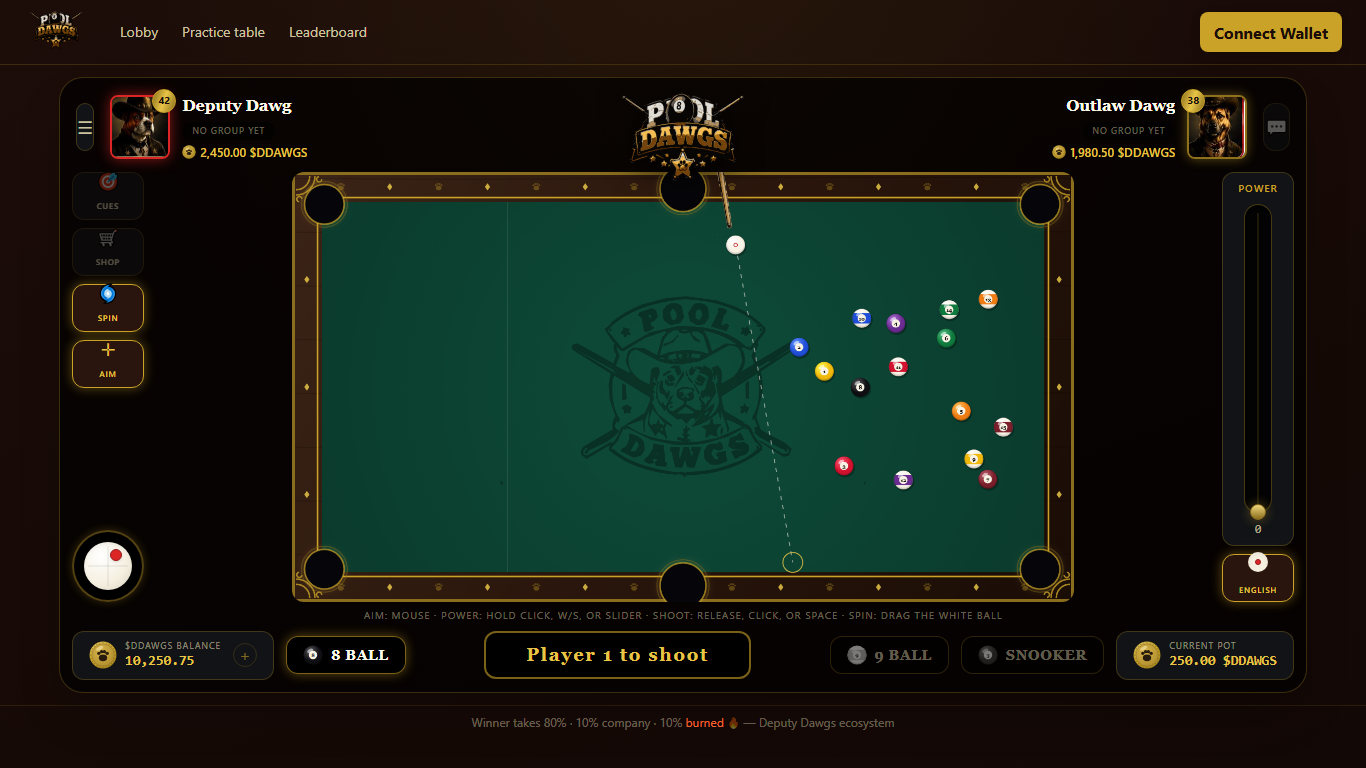
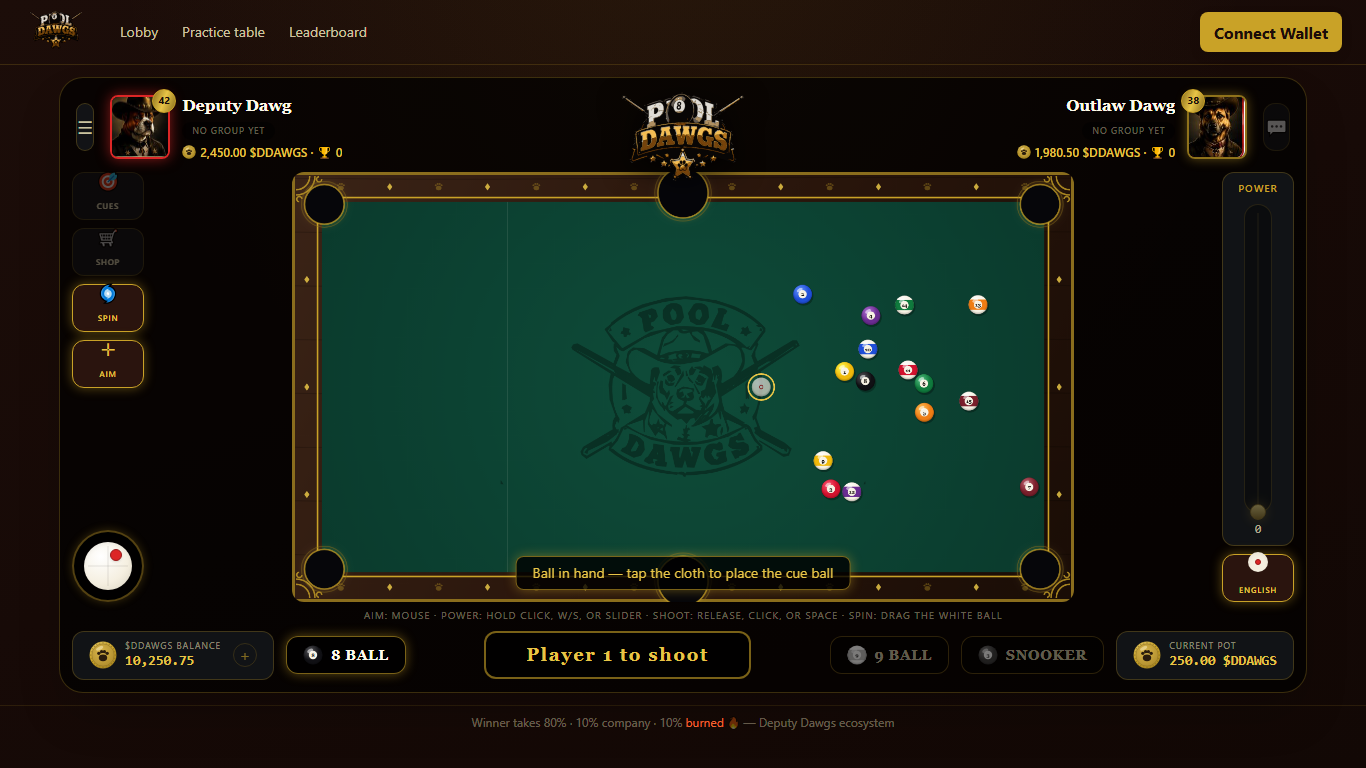
update

diff --git a/packages/engine/src/physics.ts b/packages/engine/src/physics.ts
@@ -1,16 +1,17 @@
-// Deterministic port of the fork's physics: GameWorld.handleCollision,
-// Ball.update / Ball.updatePosition / Ball.handleCollision. The math, the
-// constants and crucially the ORDER of operations (pairwise ball collisions
-// first, then per-ball integration, ascending index) are preserved so that
-// server and client simulations of the same shot produce identical results.
+// Deterministic physics, originally ported from the fork (GameWorld /
+// Ball.update / Ball.handleCollision) and then deliberately upgraded:
+//   • ball-ball contacts use REAL elastic collisions (normal-component
+//     exchange with restitution) instead of the fork's symmetric shove;
+//   • centre-pocket capture zones are retuned to match the visual mouths.
+// Friction, cushion handling, the fixed timestep and the ORDER of operations
+// (pairwise collisions first, then per-ball integration, ascending index)
+// are preserved so server and client simulations stay bit-identical.
 
 import {
-  BALL_COLLISION_DAMPING,
   BALL_ORIGIN,
+  BALL_RESTITUTION,
   BALL_SIZE,
   BOTTOM_BORDER_Y,
-  COLLISION_IMPULSE,
-  COLLISION_POWER_FACTOR,
   CUSHION_DAMPING,
   DELTA,
   FRICTION_PER_STEP,
@@ -82,6 +83,13 @@ export function stepWorld(
   return anyMoving;
 }
 
+/**
+ * Elastic equal-mass collision (real pool physics): the velocity components
+ * along the contact normal are exchanged (scaled by restitution), tangential
+ * components are kept. Detection looks one step ahead like the fork did, and
+ * the approach test (relative normal velocity < 0) prevents the same contact
+ * from firing twice while balls overlap.
+ */
 function collideBalls(
   b1: BallState,
   b2: BallState,
@@ -101,29 +109,39 @@ function collideBalls(
   const dy = n1y - n2y;
   const dist = Math.sqrt(dx * dx + dy * dy);
 
-  if (dist >= BALL_SIZE) return;
+  if (dist >= BALL_SIZE || dist < 1e-9) return;
+
+  const nx = dx / dist;
+  const ny = dy / dist;
+
+  // Only resolve approaching contacts.
+  const rel = (b1.vx - b2.vx) * nx + (b1.vy - b2.vy) * ny;
+  if (rel >= 0) return;
 
   hooks.onBallsCollide?.(b1, b2);
   events.push({ type: "ballsCollide", a: b1.id, b: b2.id, step });
 
-  let power =
-    Math.abs(b1.vx) + Math.abs(b1.vy) + Math.abs(b2.vx) + Math.abs(b2.vy);
-  power = power * COLLISION_POWER_FACTOR;
+  // Equal masses: each ball receives half the normal impulse.
+  const impulse = (-(1 + BALL_RESTITUTION) * rel) / 2;
+  b1.vx += impulse * nx;
+  b1.vy += impulse * ny;
+  b2.vx -= impulse * nx;
+  b2.vy -= impulse * ny;
 
-  const rotation = Math.atan2(b1.y - b2.y, b1.x - b2.x);
+  // Separate actual interpenetration so balls never sink into each other.
+  const cdx = b1.x - b2.x;
+  const cdy = b1.y - b2.y;
+  const cdist = Math.sqrt(cdx * cdx + cdy * cdy);
+  if (cdist > 1e-9 && cdist < BALL_SIZE) {
+    const push = (BALL_SIZE - cdist) / 2;
+    b1.x += (cdx / cdist) * push;
+    b1.y += (cdy / cdist) * push;
+    b2.x -= (cdx / cdist) * push;
+    b2.y -= (cdy / cdist) * push;
+  }
 
   b1.moving = true;
   b2.moving = true;
-
-  b2.vx += COLLISION_IMPULSE * Math.cos(rotation + Math.PI) * power;
-  b2.vy += COLLISION_IMPULSE * Math.sin(rotation + Math.PI) * power;
-  b2.vx *= BALL_COLLISION_DAMPING;
-  b2.vy *= BALL_COLLISION_DAMPING;
-
-  b1.vx += COLLISION_IMPULSE * Math.cos(rotation) * power;
-  b1.vy += COLLISION_IMPULSE * Math.sin(rotation) * power;
-  b1.vx *= BALL_COLLISION_DAMPING;
-  b1.vy *= BALL_COLLISION_DAMPING;
 }
 
 function updateBall(

diff --git a/packages/engine/src/constants.ts b/packages/engine/src/constants.ts
@@ -1,6 +1,7 @@
-// Constants ported verbatim from the forked Classic-Pool-Game
-// (Global.js, GamePolicy.js, GameWorld.js). Changing any of these breaks
-// replay-compatibility between server and client simulations.
+// Simulation constants — mostly from the forked Classic-Pool-Game
+// (Global.js, GamePolicy.js, GameWorld.js), with deliberate upgrades noted
+// inline (elastic collisions, centre-pocket capture). Changing ANY of these
+// breaks replay-compatibility: server and client must run the same values.
 
 export const TABLE_WIDTH = 1500;
 export const TABLE_HEIGHT = 825;
@@ -17,9 +18,13 @@ export const DELTA = 1 / 100;
 
 export const FRICTION_PER_STEP = 0.98;
 export const CUSHION_DAMPING = 0.95;
-export const BALL_COLLISION_DAMPING = 0.97;
-export const COLLISION_POWER_FACTOR = 0.00482;
-export const COLLISION_IMPULSE = 90;
+/**
+ * Ball-ball restitution for the elastic collision model. This replaces the
+ * fork's non-physical symmetric shove (total-speed × 0.00482 × 90 applied to
+ * both balls) with real momentum exchange along the contact normal — head-on
+ * shots stop the cue ball, cut shots split correctly.
+ */
+export const BALL_RESTITUTION = 0.94;
 export const SHOT_VELOCITY_FACTOR = 100;
 export const STOP_THRESHOLD = 1;
 
@@ -47,14 +52,21 @@ export interface Hole {
   radius: number;
 }
 
-/** Pocket centres from GamePolicy.js; centre pockets get +6 radius as in the fork. */
+/**
+ * Pocket capture zones. Corners keep the fork's GamePolicy.js values (they
+ * play fine). The fork's CENTRE pockets sat so deep under the rail — (750,32)
+ * and (750,794), radius 52 — that a cushion-hugging ball (centre clamped to
+ * y 82/743) had a capture window of only ~29px / ~20px: visually a hole,
+ * functionally a wall. They are deliberately retuned so the physics honours
+ * the drawn mouth (~70px capture window along the rail).
+ */
 export const HOLES: readonly Hole[] = [
   { x: 62, y: 62, radius: HOLE_RADIUS }, // top left
   { x: 1435, y: 62, radius: HOLE_RADIUS }, // top right
   { x: 62, y: 762, radius: HOLE_RADIUS }, // bottom left
   { x: 1435, y: 762, radius: HOLE_RADIUS }, // bottom right
-  { x: 750, y: 32, radius: HOLE_RADIUS + 6 }, // top centre
-  { x: 750, y: 794, radius: HOLE_RADIUS + 6 }, // bottom centre
+  { x: 750, y: 40, radius: 56 }, // top centre
+  { x: 750, y: 785, radius: 56 }, // bottom centre
 ];
 
 export const CUE_BALL_START = { x: 413, y: 413 };

diff --git a/packages/engine/src/engine.test.ts b/packages/engine/src/engine.test.ts
@@ -212,6 +212,51 @@ describe("ball in hand placement", () => {
   });
 });
 
+describe("pocket capture matches the visual mouth", () => {
+  /** Lone cue ball hugging a cushion (centre clamped to the rail line). */
+  function railState(y: number): TableState {
+    const state = createInitialState();
+    for (const ball of state.balls) {
+      if (ball.id === CUE_BALL_ID) continue;
+      ball.inHole = true;
+      ball.x = 0;
+      ball.y = 900;
+    }
+    const cue = cueBall(state);
+    cue.x = 600;
+    cue.y = y;
+    return state;
+  }
+
+  it("a ball rolling along the TOP rail drops into the top-centre pocket", () => {
+    // Top cushion rest line: centre y = BORDER + ball origin = 82.
+    const result = simulateShot(railState(82), { angle: 0, power: 20 });
+    expect(
+      result.events.some((e) => e.type === "pocket" && e.ballId === CUE_BALL_ID)
+    ).toBe(true);
+    expect(result.endState.balls[CUE_BALL_ID].inHole).toBe(true);
+  });
+
+  it("a ball rolling along the BOTTOM rail drops into the bottom-centre pocket", () => {
+    // Bottom cushion rest line: centre y = 825 - 57 - 25 = 743.
+    const result = simulateShot(railState(743), { angle: 0, power: 20 });
+    expect(
+      result.events.some((e) => e.type === "pocket" && e.ballId === CUE_BALL_ID)
+    ).toBe(true);
+    expect(result.endState.balls[CUE_BALL_ID].inHole).toBe(true);
+  });
+
+  it("a ball rolling along the rail into a corner drops", () => {
+    const state = railState(82);
+    const cue = cueBall(state);
+    cue.x = 300;
+    const result = simulateShot(state, { angle: Math.PI, power: 20 }); // roll left
+    expect(
+      result.events.some((e) => e.type === "pocket" && e.ballId === CUE_BALL_ID)
+    ).toBe(true);
+  });
+});
+
 describe("spin / english (PoolDawgs extension)", () => {
   /** Cue at head spot firing straight +x into a single object ball. */
   function straightShotState(): TableState {

diff --git a/apps/web/app/practice/page.tsx b/apps/web/app/practice/page.tsx
@@ -29,6 +29,8 @@ export default function PracticePage() {
   const [state, setState] = useState<TableState>(() => createInitialState());
   const [animation, setAnimation] = useState<ShotAnimation | null>(null);
   const [message, setMessage] = useState<string | null>(null);
+  // Frames won across re-racks — the fork's totalScore.
+  const [frames, setFrames] = useState<[number, number]>([0, 0]);
   const pendingEndState = useRef<TableState | null>(null);
 
   const reRack = useCallback(() => {
@@ -60,6 +62,10 @@ export default function PracticePage() {
         });
         if (result.outcome.gameOver) {
           setMessage(null);
+          if (result.outcome.winner !== null) {
+            const winner = result.outcome.winner;
+            setFrames((f) => (winner === 0 ? [f[0] + 1, f[1]] : [f[0], f[1] + 1]));
+          }
         } else if (result.outcome.foul) {
           setMessage(`Foul! Player ${result.outcome.nextTurn + 1} has ball in hand`);
         } else {
@@ -99,8 +105,8 @@ export default function PracticePage() {
     <GameShell
       state={state}
       players={[
-        { ...PLAYERS[0], detail: "2,450.00 $DDAWGS", badge: "42" },
-        { ...PLAYERS[1], detail: "1,980.50 $DDAWGS", badge: "38" },
+        { ...PLAYERS[0], detail: `2,450.00 $DDAWGS · 🏆 ${frames[0]}`, badge: "42" },
+        { ...PLAYERS[1], detail: `1,980.50 $DDAWGS · 🏆 ${frames[1]}`, badge: "38" },
       ]}
       interactive={!state.gameOver}
       potLabel="250.00 $DDAWGS"
@@ -126,7 +132,7 @@ export default function PracticePage() {
           <WinnerPopup
             winnerName={PLAYERS[state.winner].name}
             avatarSrc={PLAYERS[state.winner].avatarSrc}
-            message="wins the frame"
+            message={`wins the frame (${frames[0]}–${frames[1]})`}
             amountLabel="+200.00 $DDAWGS"
             actions={
               <>

diff --git a/packages/engine/src/world.ts b/packages/engine/src/world.ts
@@ -102,8 +102,10 @@ export function validateShot(state: TableState, shot: ShotInput): ShotValidation
       return { ok: false, reason: "spin must be within [-1, 1]" };
     }
   }
-  if (cueBall(state).inHole) {
-    return { ok: false, reason: "cue ball must be placed first" };
+  // After ANY foul the cue ball is in hand (off the table) — it must be
+  // placed before the next shot, as in the fork.
+  if (state.ballInHand || cueBall(state).inHole) {
+    return { ok: false, reason: "ball in hand — place the cue ball first" };
   }
   return { ok: true };
 }

diff --git a/apps/web/components/PoolCanvas.tsx b/apps/web/components/PoolCanvas.tsx
@@ -415,6 +415,9 @@ function drawScene(
 
   for (const ball of state.balls) {
     if (ball.inHole) continue;
+    // Ball in hand: the cue ball is lifted off the table — only the
+    // placement ghost (drawn in the overlay) is visible.
+    if (ball.id === CUE_BALL_ID && state.ballInHand) continue;
     drawBall(ctx, ball.x, ball.y, ball.id);
   }
 

diff --git a/README.md b/README.md
@@ -7,7 +7,10 @@ burned**. NFT-gated — Deputy Dawgs holders only.
 The physics and rules are forked from
 [henshmi/Classic-Pool-Game](https://github.com/henshmi/Classic-Pool-Game)
 (vendored under `reference/`), rebuilt as a deterministic engine that runs on
-**both** the server (authoritative) and the client (rendering/animation).
+**both** the server (authoritative) and the client (rendering/animation),
+then upgraded beyond the fork: real elastic ball-ball collisions, cue-ball
+spin/english, centre pockets that capture what they visually promise, and
+ball-in-hand that lifts the cue ball off the table until placed.
 
 ## Why server-authoritative
 
